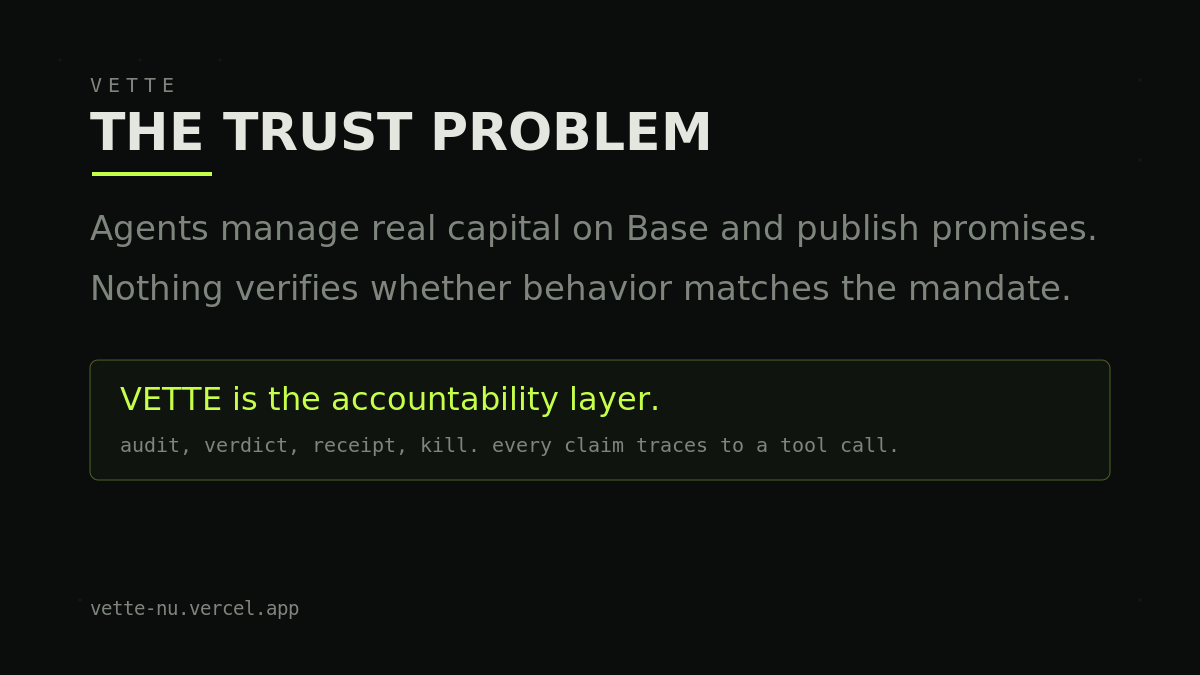
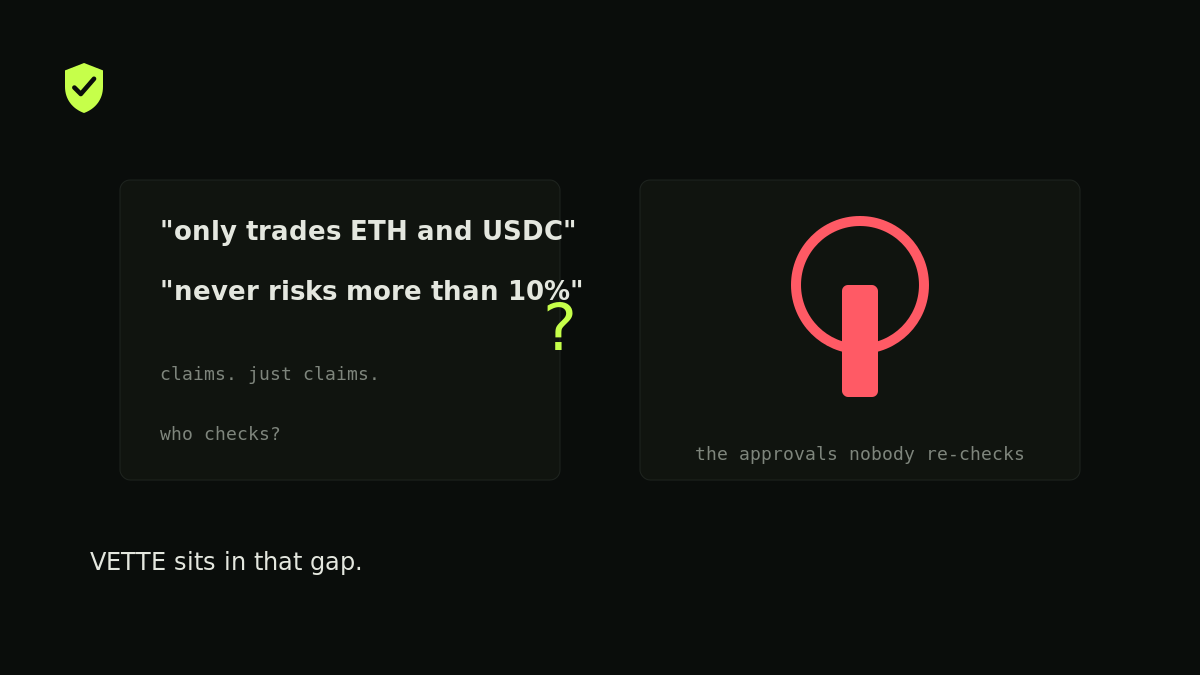
Thread images v2: visual-first set — promise-vs-keyhole, tool chips, open unverifiable ring, three score rings, receipt+stamp, ledger timeline (no tweet-text repetition; site's own visual language)

diff --git a/THREAD.md b/THREAD.md
@@ -102,7 +102,7 @@ Trust, but verified. 🛡
 
 ## Posting notes
 
-- Attach the video to Tweet 1; attach each tweet's image from brand/thread/ (img2 → Tweet 2, img3 → Tweet 3, and so on). They're 1200x675, X-optimized, and match the site's design. Swap any of them for a real product screenshot if you prefer.
+- Attach the video to Tweet 1; attach each tweet's image from brand/thread/ (img2 → Tweet 2, img3 → Tweet 3, and so on). Each image is a VISUAL piece (not a repeat of the tweet text): the promise-vs-keyhole, the four tool chips, the open UNVERIFIABLE ring, the three score rings, the receipt + REVOKED stamp, and the ledger timeline. They reuse the site's own visual language — 1200x675, pixel-verified.
 - Reply professionally, fast. Canned replies:
   - "Every claim traces to a tool call. The receipts are public."
   - "UNVERIFIABLE is a design principle — the engine does not guess."
